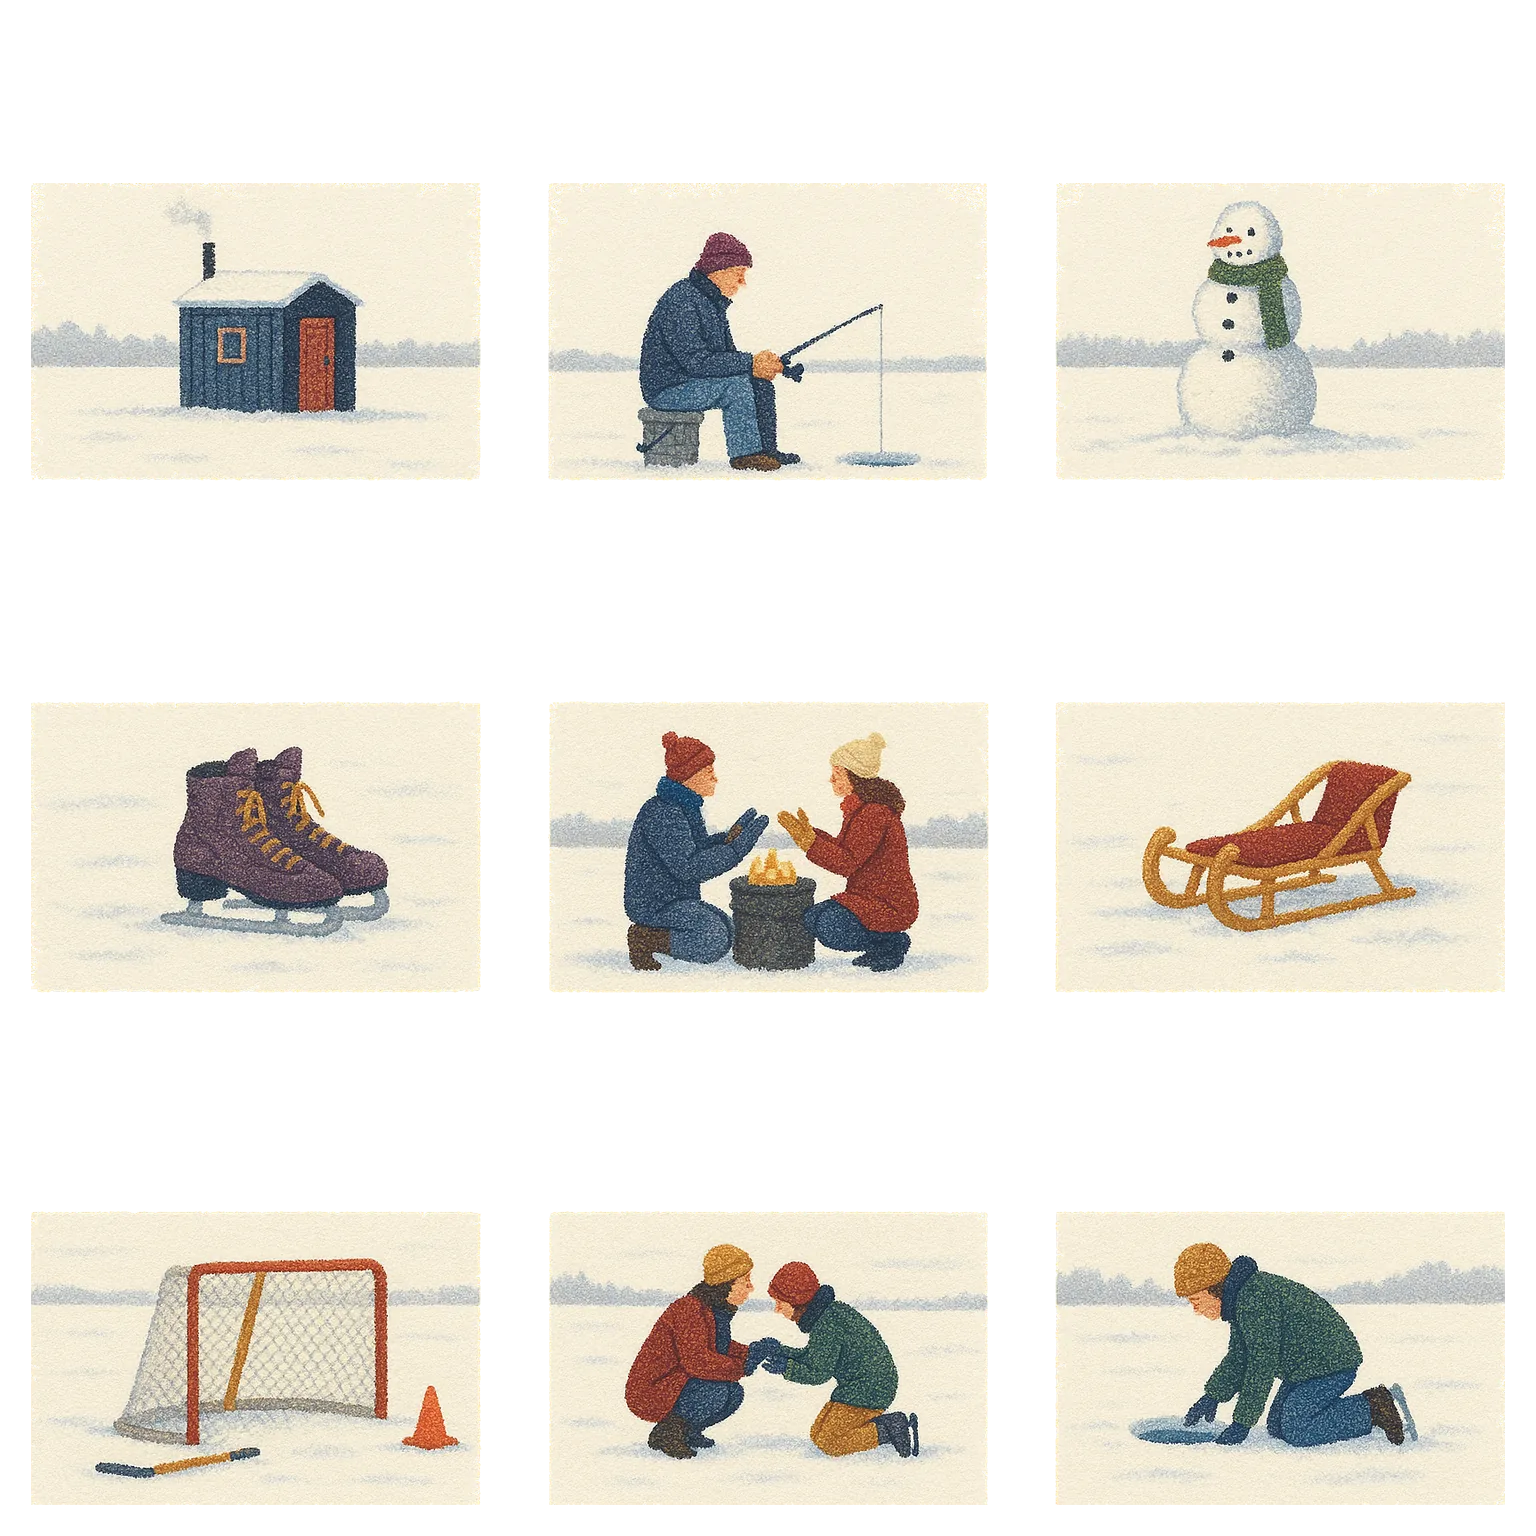
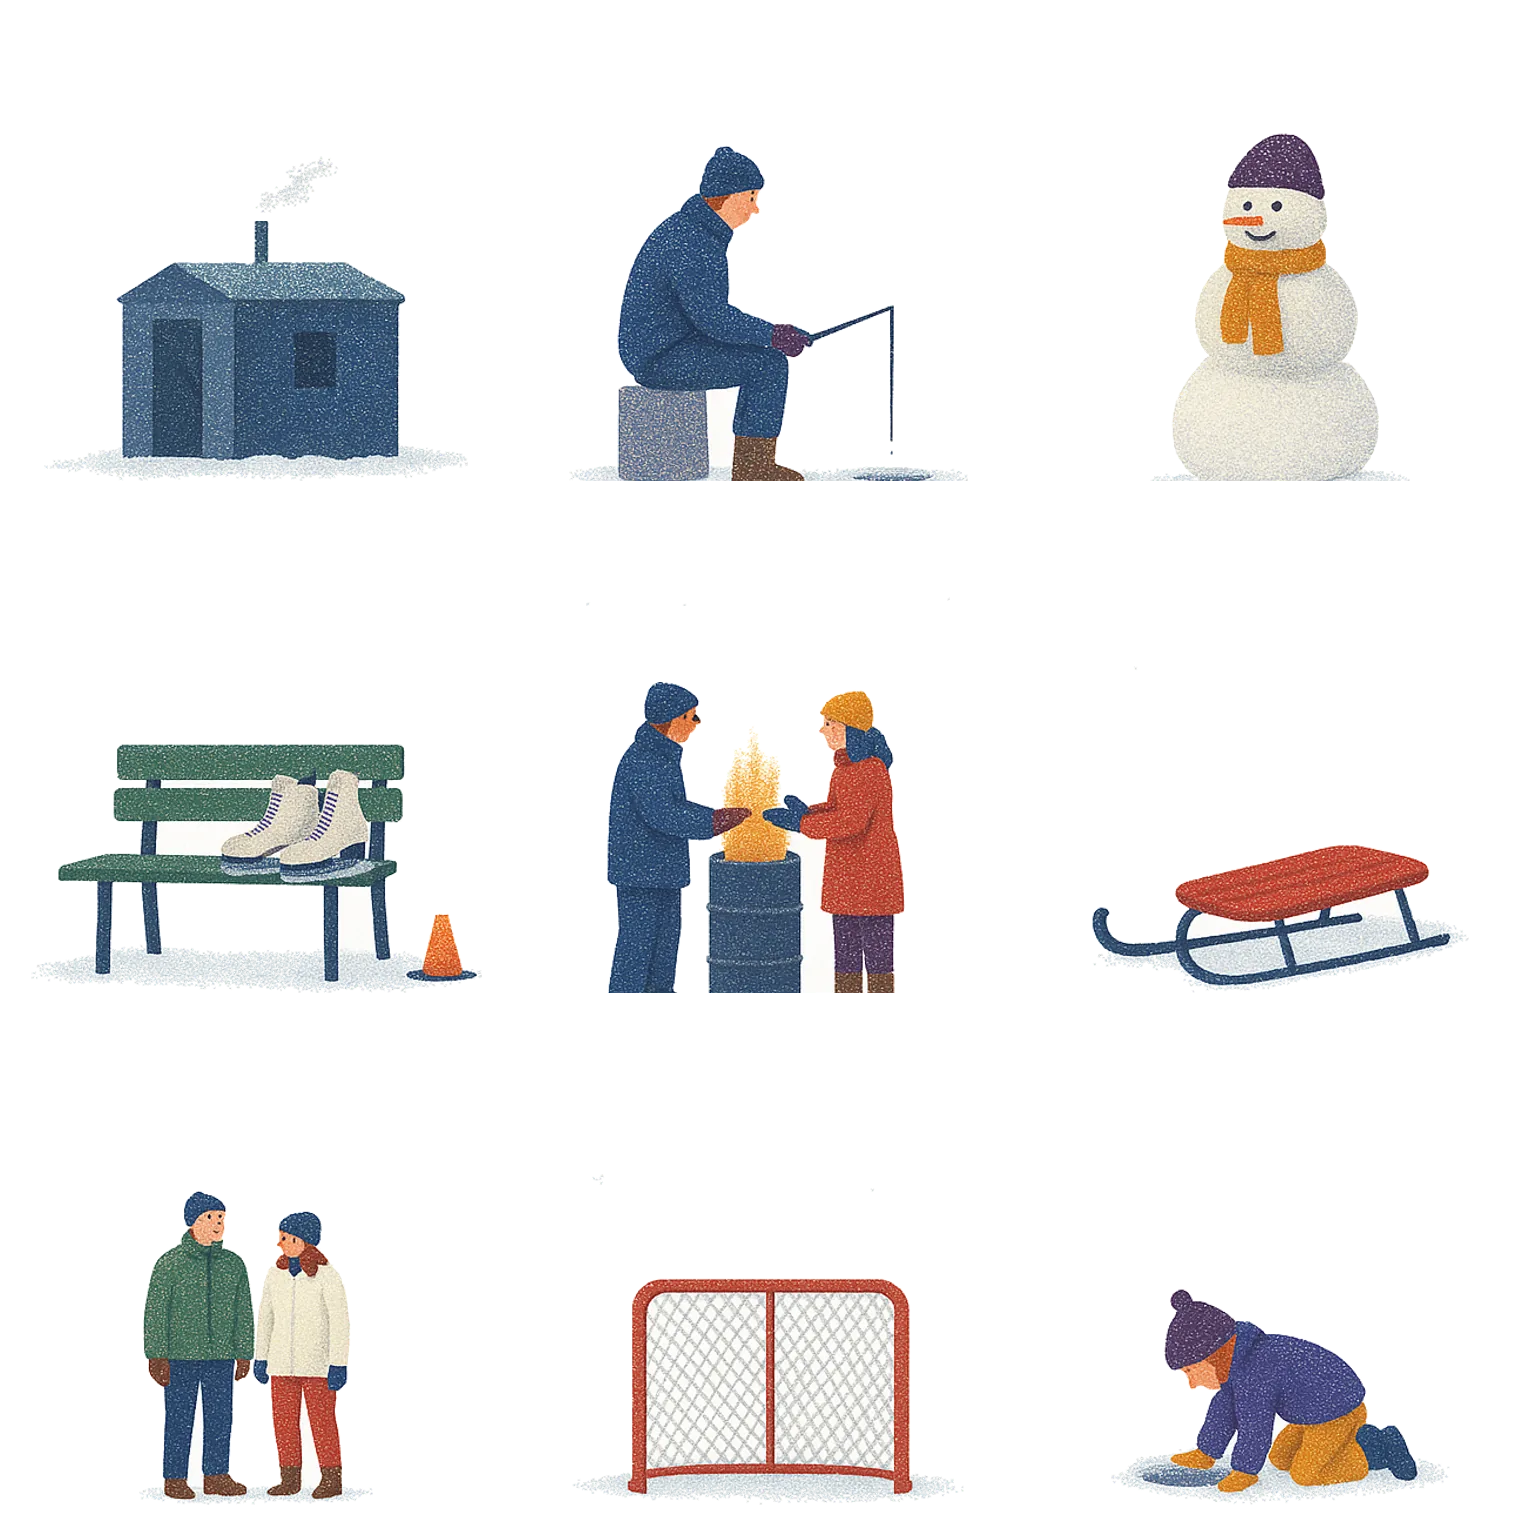
The winter stills without their snow boxes
The ice sheet predated the crowd prompts' rule that nothing is drawn
beneath anyone; drawn again under it, the house, the sled and the net
sit on the ice with no paler patch beneath them.

diff --git a/src/scenes/manifest.ts b/src/scenes/manifest.ts
@@ -1140,7 +1140,7 @@ export const scenes: Scene[] = [
           { id: 'bonfire', cell: 4, x: 24, z: -36 },
           { id: 'sled', cell: 5, x: -7, z: 7.4 },
           { id: 'hockey-net', cell: 6, x: 36, z: -26 },
-          { id: 'kneeling-pair', cell: 7, x: 4, z: -18 },
+          { id: 'standing-pair', cell: 7, x: 4, z: -18 },
           { id: 'kneeling-child', cell: 8, x: -22, z: -20 },
         ],
       },

diff --git a/assets/LEDGER.md b/assets/LEDGER.md
@@ -566,9 +566,9 @@ ground; the seat's own cards (the elms, the foreground) still fade as
 the eye rises. The lifetime (scene 05, held at 1) sees the summer
 crowd's return window, which is where people as appearances begins.
 
-Known: the winter stills' cells carry a little of their drawn snow
-ground past the key, a paler patch under the house and the sled on the
-ice; a tighter key for that sheet, or a snowier ice, would hide it.
+The winter stills' snow-ground patches (a paler box under the house
+and the sled) went with `ice-winter` v2, generated under the crowd
+prompts' "nothing beneath anyone" rule, which the first sheet predated.
 
 ### 10e · polish
 
